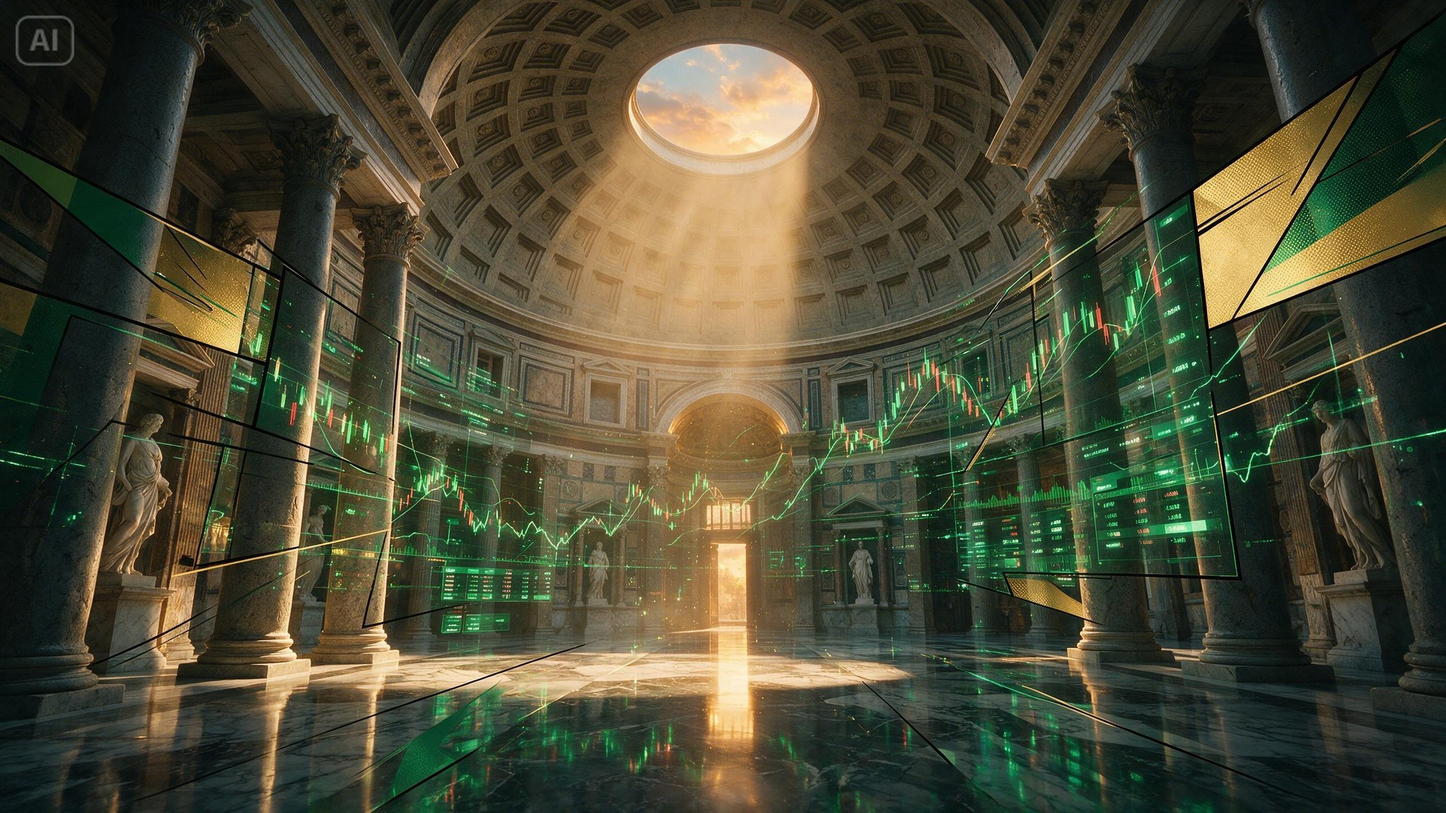
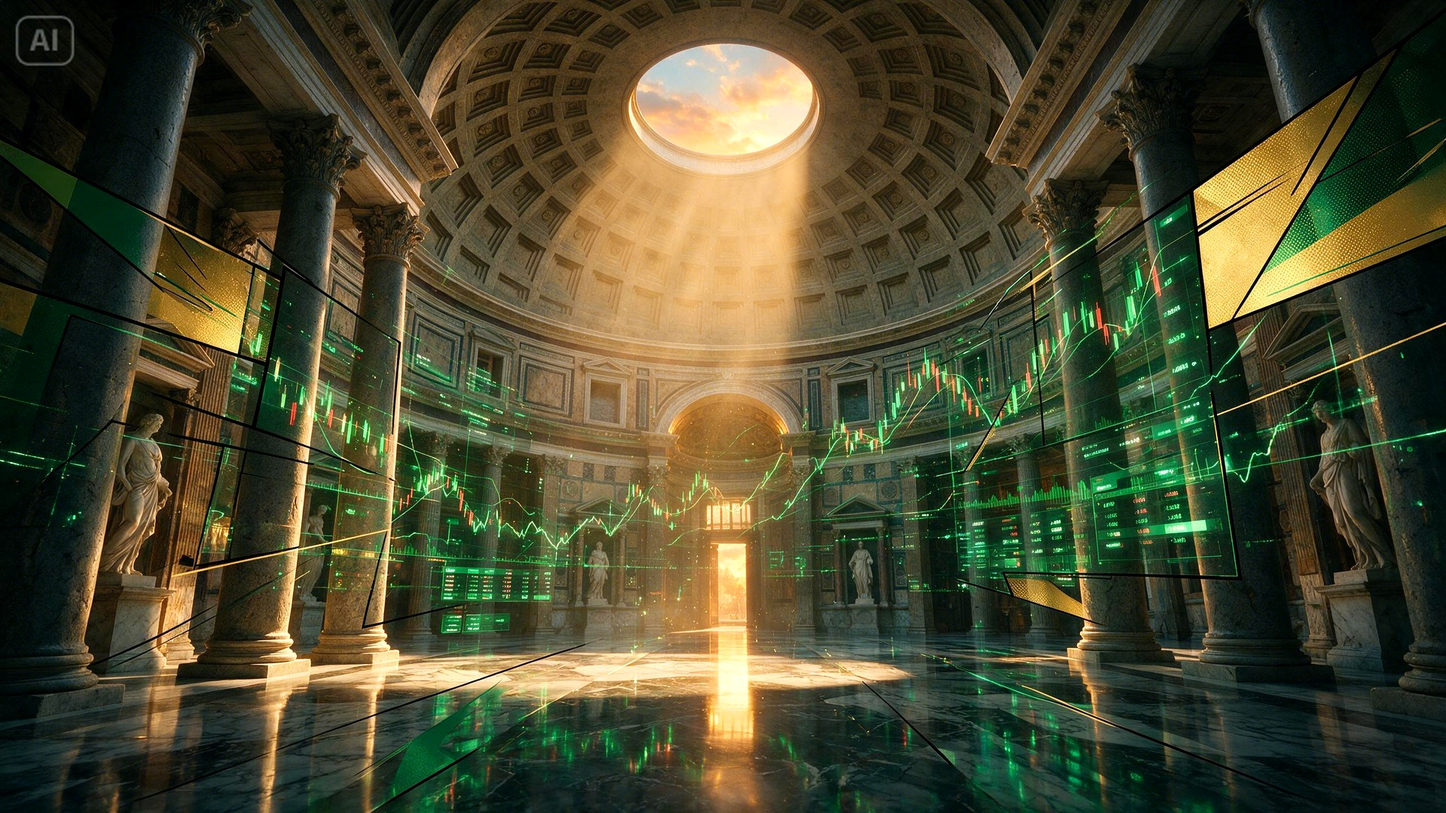
feat(podcasts): build enhanced high-clarity background still and tighten top frame to maximize background visibility

diff --git a/app/podcasts/page.tsx b/app/podcasts/page.tsx
@@ -357,54 +357,54 @@ export default function PodcastsPage() {
     <div className="relative min-h-screen text-[#f8fafc] font-light selection:bg-emerald-500 selection:text-black">
       {/* High-Resolution Cinematic Opening Still Full-Page Background */}
       <div 
-        className="fixed inset-0 pointer-events-none z-0 bg-cover bg-center bg-no-repeat opacity-90 transition-opacity duration-700"
+        className="fixed inset-0 pointer-events-none z-0 bg-cover bg-center bg-no-repeat opacity-95 transition-opacity duration-700"
         style={{
           backgroundImage: `url('/brand/cinematic-opening-bg.jpg')`,
         }}
       />
-      {/* Subtle atmospheric vignette overlay allowing full background visibility while preserving legibility */}
-      <div className="fixed inset-0 pointer-events-none z-0 bg-gradient-to-b from-[#05080e]/40 via-[#05080e]/50 to-[#05080e]/80" />
+      {/* Minimal atmospheric vignette overlay allowing full background visibility across the entire page */}
+      <div className="fixed inset-0 pointer-events-none z-0 bg-gradient-to-b from-[#05080e]/30 via-transparent to-[#05080e]/70" />
 
       {/* Interactive Page Container directly overlaid on top of the cinematic still */}
       <div className="relative z-10">
-        {/* Top Banner Navigation */}
-        <nav className="border-b border-emerald-500/20 bg-[#060b14]/70 backdrop-blur-md sticky top-0 z-40">
-          <div className="max-w-7xl mx-auto px-6 h-16 flex items-center justify-between">
-            <Link href="/" className="flex items-center gap-3">
+        {/* Top Banner Navigation - Compact & Tight */}
+        <nav className="border-b border-emerald-500/20 bg-[#060b14]/60 backdrop-blur-md sticky top-0 z-40">
+          <div className="max-w-7xl mx-auto px-6 h-14 flex items-center justify-between">
+            <Link href="/" className="flex items-center gap-2.5">
               <span className="text-emerald-400 font-normal tracking-widest text-xs uppercase px-2 py-0.5 border border-emerald-500/40 rounded bg-emerald-950/40">CBSE</span>
-              <span className="text-white tracking-widest text-sm font-light uppercase drop-shadow-md">Comic Book Stock Exchange</span>
+              <span className="text-white tracking-widest text-xs sm:text-sm font-light uppercase drop-shadow">Comic Book Stock Exchange</span>
             </Link>
-            <div className="flex items-center gap-6 text-xs uppercase tracking-wider text-slate-300">
+            <div className="flex items-center gap-5 text-xs uppercase tracking-wider text-slate-300">
               <Link href="/excerpts" className="hover:text-emerald-400 transition-colors">Excerpts</Link>
               <Link href="/book" className="hover:text-emerald-400 transition-colors">Monograph</Link>
-              <Link href="/beta" className="text-emerald-400 border border-emerald-500/40 px-3 py-1 rounded hover:bg-emerald-500/20 bg-emerald-950/40 transition-colors">Private Beta</Link>
+              <Link href="/beta" className="text-emerald-400 border border-emerald-500/40 px-2.5 py-0.5 rounded hover:bg-emerald-500/20 bg-emerald-950/40 transition-colors text-[11px]">Private Beta</Link>
             </div>
           </div>
         </nav>
 
-        {/* Hero Header with SeaDance / Elena & Marcus Artwork */}
-        <section className="relative overflow-hidden border-b border-emerald-500/20 bg-[#060b14]/50 backdrop-blur-md py-16 px-6">
-        <div className="max-w-7xl mx-auto grid grid-cols-1 lg:grid-cols-12 gap-12 items-center">
-          <div className="lg:col-span-7 space-y-6">
-            <div className="inline-flex items-center gap-2 px-3 py-1 rounded bg-emerald-950/60 border border-emerald-500/40 text-emerald-300 text-xs tracking-widest uppercase backdrop-blur-sm">
+        {/* Hero Header with SeaDance / Elena & Marcus Artwork - Tighter Frame (py-8 md:py-10) to reveal more background */}
+        <section className="relative overflow-hidden border-b border-emerald-500/20 bg-[#060b14]/40 backdrop-blur-sm py-8 md:py-10 px-6">
+        <div className="max-w-7xl mx-auto grid grid-cols-1 lg:grid-cols-12 gap-8 items-center">
+          <div className="lg:col-span-8 space-y-4">
+            <div className="inline-flex items-center gap-2 px-2.5 py-0.5 rounded bg-emerald-950/60 border border-emerald-500/40 text-emerald-300 text-[11px] tracking-widest uppercase backdrop-blur-sm">
               <span>◆</span> OFFICIAL PODCAST ARCHIVE // 24 COMPLETE VOLUMES
             </div>
-            <h1 className="text-4xl md:text-5xl font-light text-white tracking-wide uppercase leading-tight drop-shadow-lg">
+            <h1 className="text-3xl md:text-4xl lg:text-5xl font-light text-white tracking-wide uppercase leading-tight drop-shadow-lg">
               Sequential Art Equities <br />
               <span className="text-emerald-400">Master Audio Broadcasts</span>
             </h1>
-            <p className="text-slate-200 text-base md:text-lg leading-relaxed max-w-2xl font-light drop-shadow">
+            <p className="text-slate-200 text-sm md:text-base leading-relaxed max-w-2xl font-light drop-shadow">
               Forensic market telemetry, actuarial pricing models, and unvarnished dealer history. Hosted by <strong className="text-white font-normal">Marcus Vance</strong> (Quantitative Finance Lead) and <strong className="text-white font-normal">Elena Rostov</strong> (Art History &amp; Pedigree Provenance).
             </p>
-            <div className="flex flex-wrap gap-4 pt-2 text-xs uppercase tracking-wider text-slate-300">
+            <div className="flex flex-wrap gap-4 pt-1 text-[11px] uppercase tracking-wider text-slate-300">
               <span className="flex items-center gap-1.5"><span className="w-2 h-2 rounded-full bg-emerald-400"></span> 24 Master Episodes</span>
               <span className="flex items-center gap-1.5"><span className="w-2 h-2 rounded-full bg-emerald-400"></span> 1 Open Preview Broadcast</span>
               <span className="flex items-center gap-1.5"><span className="w-2 h-2 rounded-full bg-emerald-400"></span> Zero Corporate Shilling</span>
             </div>
           </div>
 
-          <div className="lg:col-span-5 relative">
-            <div className="relative rounded-xl overflow-hidden border border-emerald-500/40 shadow-2xl shadow-black/80 group bg-slate-900/60 backdrop-blur-sm aspect-square">
+          <div className="lg:col-span-4 relative">
+            <div className="relative rounded-xl overflow-hidden border border-emerald-500/40 shadow-2xl shadow-black/80 group bg-slate-900/60 backdrop-blur-sm max-w-[280px] lg:max-w-none mx-auto aspect-square">
               <img 
                 src={PODCAST_HERO_IMAGE_B64} 
                 alt="Marcus Vance & Elena Rostov - Comic Book Stock Exchange" 
@@ -412,12 +412,12 @@ export default function PodcastsPage() {
                 loading="eager"
               />
               <div className="absolute inset-0 bg-gradient-to-t from-[#05080e]/80 via-transparent to-transparent opacity-60 pointer-events-none"></div>
-              <div className="absolute bottom-4 left-4 right-4 p-4 rounded bg-[#060b14]/85 backdrop-blur-md border border-emerald-500/40 flex justify-between items-center text-xs uppercase tracking-wider">
+              <div className="absolute bottom-3 left-3 right-3 p-3 rounded bg-[#060b14]/85 backdrop-blur-md border border-emerald-500/40 flex justify-between items-center text-[11px] uppercase tracking-wider">
                 <div>
                   <div className="text-emerald-400 font-normal">Marcus Vance &amp; Elena Rostov</div>
-                  <div className="text-slate-300 text-[11px]">CBSE Research Desk</div>
+                  <div className="text-slate-300 text-[10px]">CBSE Research Desk</div>
                 </div>
-                <div className="text-emerald-300 font-mono text-[11px]">24 VOLUMES</div>
+                <div className="text-emerald-300 font-mono text-[10px]">24 VOLUMES</div>
               </div>
             </div>
           </div>
@@ -425,10 +425,10 @@ export default function PodcastsPage() {
       </section>
 
       {/* Main Content Area */}
-      <main className="max-w-7xl mx-auto px-6 py-12">
+      <main className="max-w-7xl mx-auto px-6 py-8 md:py-10">
 
         {/* ROTATING FEATURED OPEN PREVIEW (FREE FOR ALL VISITORS WITHOUT ENTERING INFO) */}
-        <div className="mb-14 p-6 md:p-8 rounded-xl bg-[#060b14]/75 backdrop-blur-lg border border-emerald-500/50 shadow-2xl shadow-black/60 relative overflow-hidden">
+        <div className="mb-10 p-5 md:p-6 rounded-xl bg-[#060b14]/70 backdrop-blur-lg border border-emerald-500/50 shadow-2xl shadow-black/60 relative overflow-hidden">
           <div className="flex flex-col md:flex-row md:items-center justify-between gap-6">
             <div className="space-y-2 max-w-2xl">
               <div className="flex items-center gap-2">
@@ -437,11 +437,11 @@ export default function PodcastsPage() {
                 </span>
                 <span className="text-slate-300 text-xs font-mono">VOL. {String(featuredEpisode.number).padStart(2, "0")}</span>
               </div>
-              <h2 className="text-2xl md:text-3xl font-light text-white uppercase tracking-wide">
+              <h2 className="text-xl md:text-2xl font-light text-white uppercase tracking-wide">
                 {featuredEpisode.title}
               </h2>
               <div className="text-emerald-400 text-xs uppercase tracking-wider">{featuredEpisode.subtitle}</div>
-              <p className="text-slate-200 text-sm font-light leading-relaxed pt-1">
+              <p className="text-slate-200 text-xs md:text-sm font-light leading-relaxed pt-1">
                 {featuredEpisode.description}
               </p>
             </div>
@@ -450,7 +450,7 @@ export default function PodcastsPage() {
               <span className="text-xs text-slate-300 font-mono">RUNTIME: {featuredEpisode.duration}</span>
               <button
                 onClick={() => handlePlayEpisode(featuredEpisode)}
-                className="px-6 py-3 rounded bg-emerald-500 hover:bg-emerald-400 text-slate-950 font-normal uppercase tracking-widest text-xs transition-colors shadow-lg shadow-emerald-500/20 flex items-center gap-2"
+                className="px-5 py-2.5 rounded bg-emerald-500 hover:bg-emerald-400 text-slate-950 font-normal uppercase tracking-widest text-xs transition-colors shadow-lg shadow-emerald-500/20 flex items-center gap-2"
               >
                 <span>▶</span> STREAM THIS BROADCAST
               </button>
